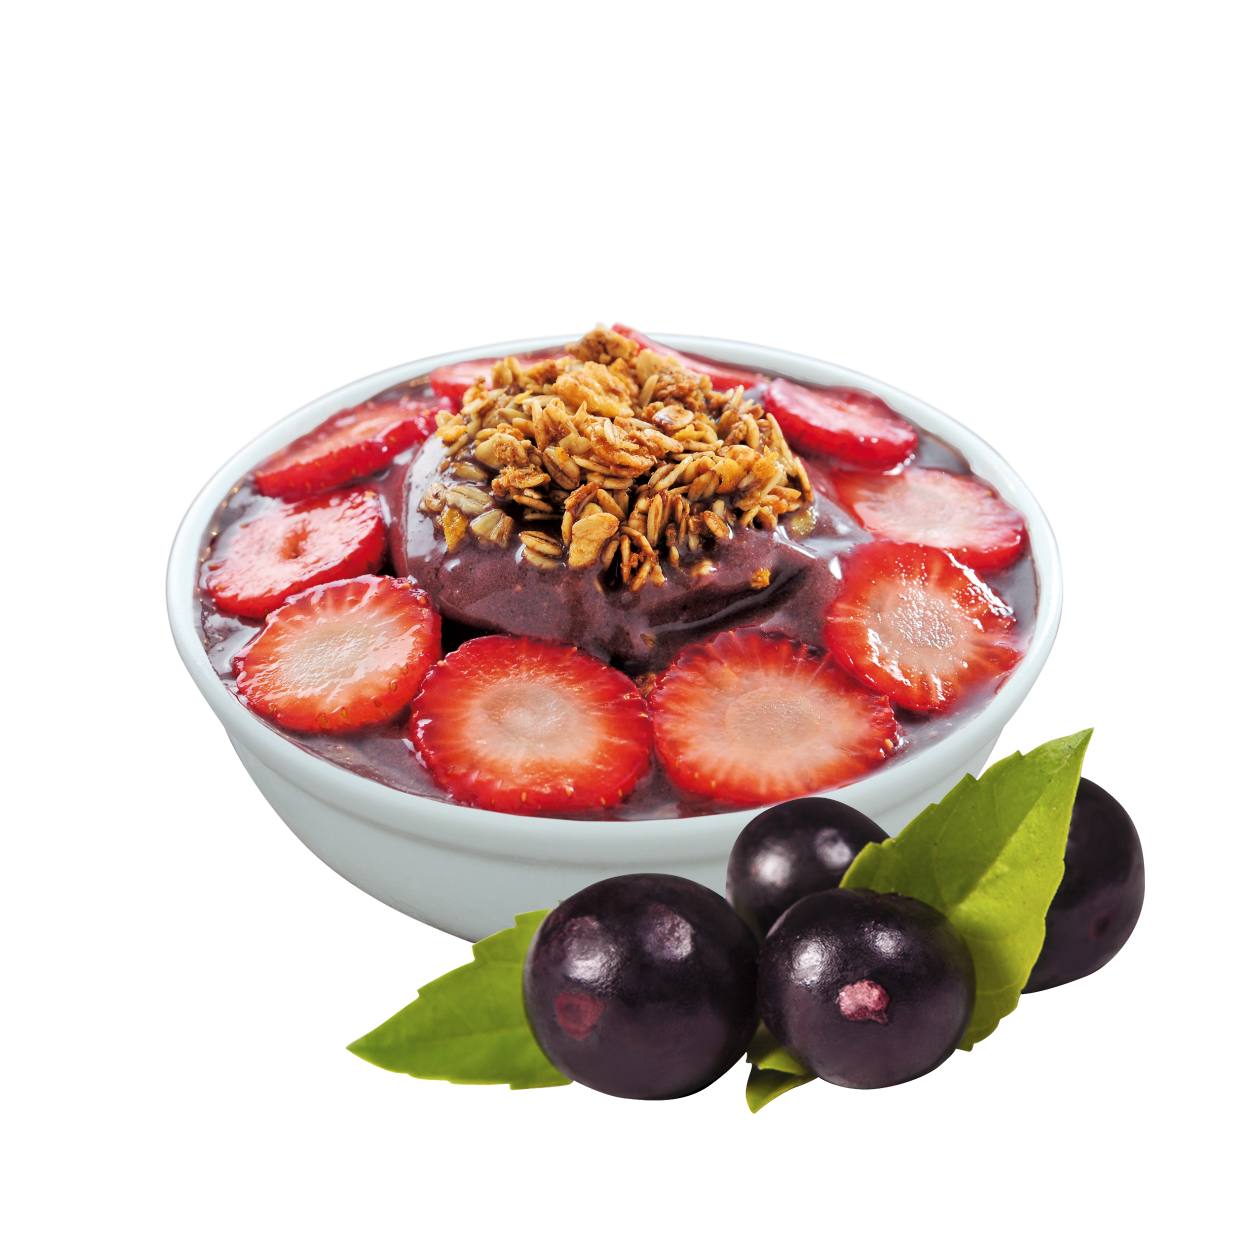
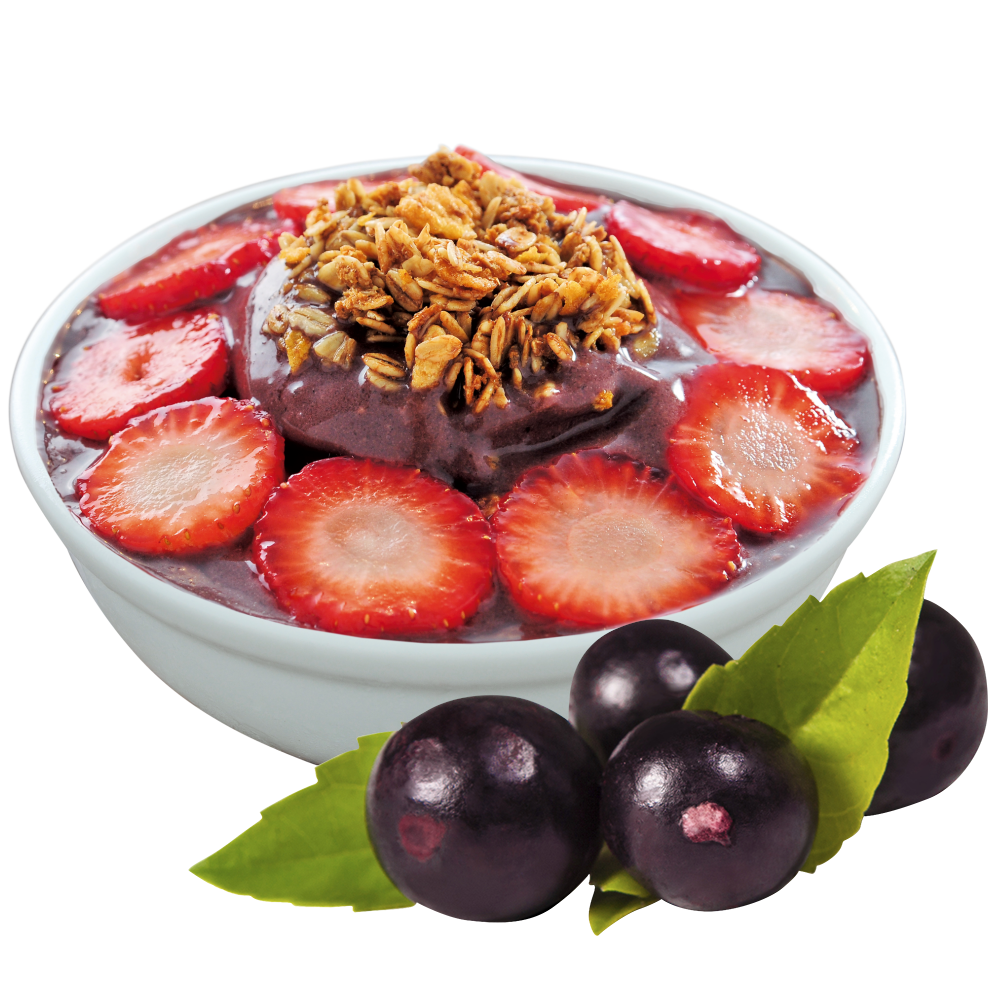
added scrollbar's styles and manipulated acai hero picture's size

diff --git a/app/ui/globals.css b/app/ui/globals.css
@@ -8,3 +8,14 @@
 .mirror-border-picture {
   transform: translate(0%, 100%) rotateX(-180deg);
 }
+
+
+::-webkit-scrollbar {
+  width: 10px;
+  background-color: white;
+}
+::-webkit-scrollbar-thumb {
+  border-radius: 10px;
+  background-color: black;
+  border: 2.5px solid white;
+}
